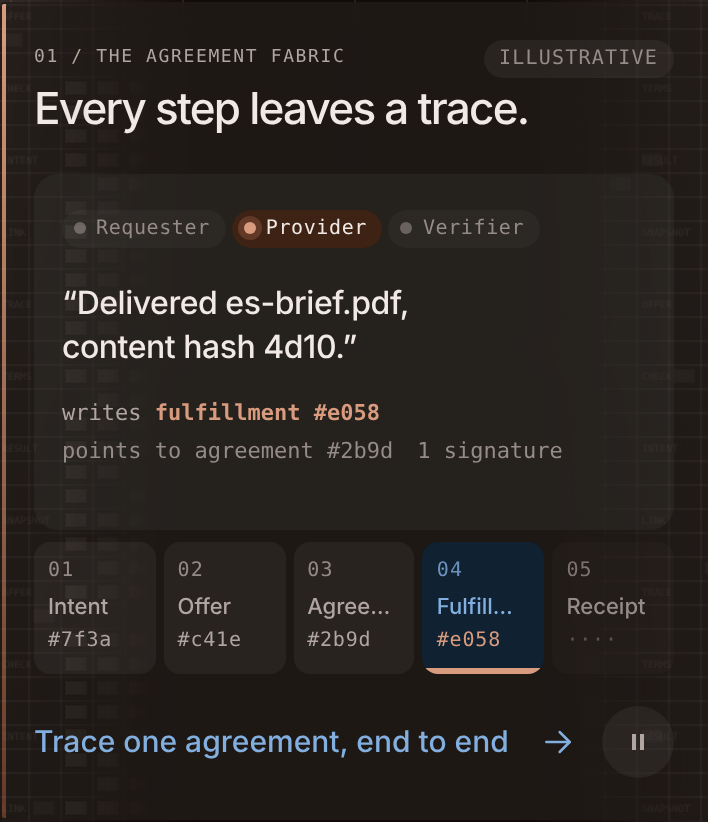
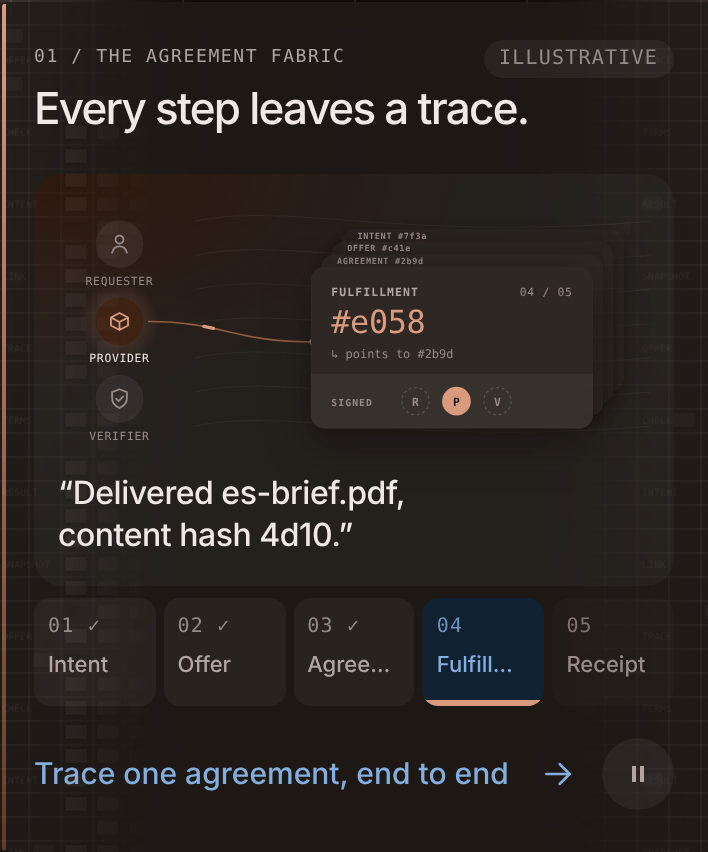
Home: illustrate the agreement fabric step
Brings back a drawn scene: the three parties as glyph avatars, a beam
from whoever acts to their signature on the record being written, and
the records already written stacked behind it, sealed when the receipt
verifies the trail. The step tiles drop their hashes, since the stack
now shows them.

Claude-Session: https://claude.ai/code/session_01JsiwkMB1W5KMpojX5vuTMZ

diff --git a/css/home-flow.css b/css/home-flow.css
@@ -10,54 +10,108 @@
  font:500 10px/1.5 var(--mono-font,monospace);letter-spacing:.06em;text-transform:uppercase;color:hsl(var(--text-faint));}
 .flow {--flow-step:3.2s;display:grid;gap:6px;margin-top:20px;}
 
-/* Now ------------------------------------------------------------------- */
-.flow-now {display:grid;gap:14px;align-content:start;min-height:156px;padding:16px 18px 16px;border-radius:12px;background:hsl(var(--text-strong) / .045);}
-.flow-now-head {display:flex;align-items:center;justify-content:space-between;gap:10px;min-height:26px;}
-.flow-parties {display:flex;flex-wrap:wrap;gap:4px;}
-.flow-party {display:inline-flex;align-items:center;gap:7px;padding:4px 10px 4px 8px;border-radius:999px;background:hsl(var(--text-strong) / .04);
- font:500 11px/1.3 var(--mono-font,ui-monospace,monospace);letter-spacing:.03em;color:hsl(var(--text-faint));transition:background 240ms,color 240ms;}
-.flow-party-dot {width:6px;height:6px;border-radius:50%;background:currentColor;opacity:.6;transition:background 240ms,opacity 240ms,box-shadow 240ms;}
-.flow[data-actors~="requester"] .flow-party[data-actor="requester"],
-.flow[data-actors~="provider"] .flow-party[data-actor="provider"],
-.flow[data-actors~="verifier"] .flow-party[data-actor="verifier"] {background:hsl(var(--primary-200));color:hsl(var(--text-strong));}
-.flow[data-actors~="requester"] .flow-party[data-actor="requester"] .flow-party-dot,
-.flow[data-actors~="provider"] .flow-party[data-actor="provider"] .flow-party-dot,
-.flow[data-actors~="verifier"] .flow-party[data-actor="verifier"] .flow-party-dot {background:hsl(var(--primary));opacity:1;box-shadow:0 0 0 3px hsl(var(--primary-300));}
-
-.flow-says {display:block;font:500 18px/1.35 var(--font-sans,"Albert Sans",sans-serif);letter-spacing:-.015em;color:hsl(var(--text-strong));text-wrap:balance;}
-.flow-meta {display:flex;flex-wrap:wrap;align-items:center;gap:6px 16px;font:400 12px/1.4 var(--mono-font,ui-monospace,monospace);color:hsl(var(--text-faint));}
-.flow-writes {color:hsl(var(--text-muted));}
-.flow-writes b {font-weight:600;color:hsl(var(--primary));}
-.flow.flow-run .flow-now :is(.flow-says,.flow-meta) {animation:flow-caption 420ms ease-out both;}
-.flow.flow-run .flow-meta {animation-delay:240ms;}
+/* Now: the illustrated step, then its quote ------------------------------ */
+.flow-now {display:grid;gap:12px;align-content:start;padding:14px 18px 18px;border-radius:14px;
+ background:radial-gradient(120% 90% at 0% 0%,hsl(var(--primary-100)),transparent 55%),hsl(var(--text-strong) / .04);}
+.flow-scene {display:block;width:100%;height:auto;overflow:visible;}
+.flow-says {display:block;min-height:2.7em;font:500 18px/1.35 var(--font-sans,"Albert Sans",sans-serif);letter-spacing:-.015em;color:hsl(var(--text-strong));text-wrap:balance;}
+.flow.flow-run .flow-says {animation:flow-caption 420ms ease-out both;}
 @keyframes flow-caption {from{opacity:0;transform:translateY(3px);}to{opacity:1;transform:none;}}
 
+.flow-weave path {stroke:hsl(var(--text-strong) / .05);stroke-width:1;}
+.flow-glow-in {stop-color:hsl(var(--primary));stop-opacity:.28;}
+.flow-glow-out {stop-color:hsl(var(--primary));stop-opacity:0;}
+
+/* Parties: dim until they act. */
+.flow-avatar-glow {opacity:0;transition:opacity 300ms;}
+.flow-avatar-ring {fill:none;stroke:hsl(var(--primary));stroke-width:1.5;opacity:0;transform-box:fill-box;transform-origin:center;}
+.flow-avatar-disc {fill:hsl(var(--text-strong) / .07);transition:fill 300ms;}
+.flow-avatar-glyph {stroke:hsl(var(--text-faint));stroke-width:1.6;stroke-linecap:round;stroke-linejoin:round;fill:none;transition:stroke 300ms;}
+.flow-avatar-label {font:500 10px var(--mono-font,ui-monospace,monospace);letter-spacing:.06em;text-transform:uppercase;fill:hsl(var(--text-faint));transition:fill 300ms;}
+.flow[data-actors~="requester"] .flow-avatar[data-actor="requester"],
+.flow[data-actors~="provider"] .flow-avatar[data-actor="provider"],
+.flow[data-actors~="verifier"] .flow-avatar[data-actor="verifier"] {--on:1;}
+.flow-avatar {--on:0;}
+.flow-avatar .flow-avatar-glow {opacity:var(--on);}
+.flow[data-actors~="requester"] .flow-avatar[data-actor="requester"] .flow-avatar-disc,
+.flow[data-actors~="provider"] .flow-avatar[data-actor="provider"] .flow-avatar-disc,
+.flow[data-actors~="verifier"] .flow-avatar[data-actor="verifier"] .flow-avatar-disc {fill:hsl(var(--primary-200));}
+.flow[data-actors~="requester"] .flow-avatar[data-actor="requester"] .flow-avatar-glyph,
+.flow[data-actors~="provider"] .flow-avatar[data-actor="provider"] .flow-avatar-glyph,
+.flow[data-actors~="verifier"] .flow-avatar[data-actor="verifier"] .flow-avatar-glyph {stroke:hsl(var(--primary));}
+.flow[data-actors~="requester"] .flow-avatar[data-actor="requester"] .flow-avatar-label,
+.flow[data-actors~="provider"] .flow-avatar[data-actor="provider"] .flow-avatar-label,
+.flow[data-actors~="verifier"] .flow-avatar[data-actor="verifier"] .flow-avatar-label {fill:hsl(var(--text-strong));}
+.flow.flow-run[data-actors~="requester"] .flow-avatar[data-actor="requester"] .flow-avatar-ring,
+.flow.flow-run[data-actors~="provider"] .flow-avatar[data-actor="provider"] .flow-avatar-ring,
+.flow.flow-run[data-actors~="verifier"] .flow-avatar[data-actor="verifier"] .flow-avatar-ring {animation:flow-ping 1.6s ease-out 2;}
+@keyframes flow-ping {from{opacity:.8;transform:scale(.85);}to{opacity:0;transform:scale(1.35);}}
+
+/* Beams: drawn from the acting party to the record, then a spark rides them. */
+.flow-beam {opacity:0;transition:opacity 300ms;}
+.flow-beam[data-on="true"] {opacity:1;}
+.flow-beam-line {stroke:hsl(var(--primary-400));stroke-width:1.5;stroke-dasharray:1;stroke-dashoffset:0;}
+.flow-beam-spark {stroke:hsl(var(--primary));stroke-width:3;stroke-linecap:round;stroke-dasharray:.06 .94;stroke-dashoffset:.06;opacity:0;}
+.flow-beam-end {fill:hsl(var(--primary));}
+.flow.flow-run .flow-beam[data-on="true"] .flow-beam-line {animation:flow-draw 700ms cubic-bezier(.22,1,.36,1) both;}
+.flow.flow-run .flow-beam[data-on="true"] .flow-beam-spark {opacity:1;animation:flow-spark 1.6s linear 500ms infinite;}
+.flow[data-playing="false"] .flow-beam-spark {animation:none !important;opacity:0 !important;}
+@keyframes flow-draw {from{stroke-dashoffset:1;}to{stroke-dashoffset:0;}}
+@keyframes flow-spark {from{stroke-dashoffset:.06;}to{stroke-dashoffset:-.94;}}
+
+/* The trail behind the current record. */
+.flow-ghost {opacity:0;transition:opacity 400ms;}
+.flow-ghost[data-on="true"] {opacity:1;}
+.flow-ghost-box {fill:hsl(var(--raised));filter:drop-shadow(0 4px 6px hsl(var(--canvas) / .6));}
+.flow-ghost[data-depth="1"] .flow-ghost-box {opacity:.92;}
+.flow-ghost[data-depth="2"] .flow-ghost-box {opacity:.75;}
+.flow-ghost[data-depth="3"] .flow-ghost-box {opacity:.58;}
+.flow-ghost[data-depth="4"] .flow-ghost-box {opacity:.42;}
+.flow-ghost-label {font:600 7.5px var(--mono-font,ui-monospace,monospace);letter-spacing:.08em;fill:hsl(var(--text-faint));}
+.flow[data-complete="true"] .flow-ghost-label {fill:hsl(var(--success));}
+
+/* The record being written. */
+.flow-card-box {fill:hsl(var(--raised));filter:drop-shadow(0 12px 18px hsl(var(--canvas) / .55));}
+.flow-card-band {fill:hsl(var(--text-strong) / .05);}
+.flow-card-type {font:600 10px var(--mono-font,ui-monospace,monospace);letter-spacing:.1em;fill:hsl(var(--text-muted));}
+.flow-card-count {font:500 10px var(--mono-font,ui-monospace,monospace);letter-spacing:.06em;fill:hsl(var(--text-faint));}
+.flow-card-hash {font:500 28px var(--mono-font,ui-monospace,monospace);letter-spacing:-.01em;fill:hsl(var(--primary));}
+.flow-card-prev {font:400 10.5px var(--mono-font,ui-monospace,monospace);fill:hsl(var(--text-faint));}
+.flow-card-signed {font:600 8.5px var(--mono-font,ui-monospace,monospace);letter-spacing:.12em;fill:hsl(var(--text-faint));}
+.flow-stamp-disc {fill:none;stroke:hsl(var(--text-strong) / .16);stroke-width:1.2;stroke-dasharray:2.5 2.5;transition:fill 300ms,stroke 300ms;}
+.flow-stamp-mark {font:600 10px var(--mono-font,ui-monospace,monospace);fill:hsl(var(--text-faint));transition:fill 300ms;}
+.flow-stamp[data-on="true"] .flow-stamp-disc {fill:hsl(var(--primary));stroke:hsl(var(--primary));stroke-dasharray:none;}
+.flow-stamp[data-on="true"] .flow-stamp-mark {fill:hsl(var(--text-inverse));}
+.flow.flow-run .flow-stamp[data-on="true"] {animation:flow-stamp 500ms cubic-bezier(.34,1.56,.64,1) 550ms both;transform-box:fill-box;transform-origin:center;}
+@keyframes flow-stamp {from{transform:scale(1.6);opacity:0;}to{transform:none;opacity:1;}}
+.flow.flow-run .flow-card {animation:flow-card 520ms cubic-bezier(.22,1,.36,1) both;}
+@keyframes flow-card {from{transform:translate(-6px,8px);opacity:.3;}to{transform:none;opacity:1;}}
+
 /* A finished trail: one success state, after the receipt is written. */
-.flow-meta > .flow-verified {display:none;padding:1px 8px;border-radius:999px;background:hsl(var(--success-100));font-weight:600;color:hsl(var(--success));}
-.flow-meta > .flow-verified::before {content:"✓";margin-right:5px;opacity:1;}
-.flow[data-complete="true"] .flow-meta > .flow-verified {display:inline-block;}
-.flow[data-complete="true"] .flow-signs {display:none;}
+.flow-seal {opacity:0;transform-box:fill-box;transform-origin:center;transition:opacity 300ms;}
+.flow-seal-disc {fill:hsl(var(--success-100));stroke:hsl(var(--success));stroke-width:1.5;}
+.flow-seal-check {stroke:hsl(var(--success));stroke-width:2.4;stroke-linecap:round;stroke-linejoin:round;fill:none;}
+.flow[data-complete="true"] .flow-seal {opacity:1;}
+.flow.flow-run[data-complete="true"] .flow-seal {animation:flow-stamp 500ms cubic-bezier(.34,1.56,.64,1) 900ms both;}
+.flow[data-complete="true"] .flow-card-hash {fill:hsl(var(--success));}
 
 /* Ledger: five record tiles, which are also the step links. A future record
    is an empty slot; the current one fills as the step plays; a written one
    keeps its hash. */
 #scene .flow-ledger {display:grid;grid-template-columns:repeat(5,minmax(0,1fr));gap:6px;margin:0;padding:0;list-style:none;}
 #scene .flow-ledger li {min-width:0;text-align:left;}
-#scene .flow-ledger .flow-record {position:relative;display:grid;gap:2px;min-height:74px;margin:0;padding:10px 11px 12px;border:0;border-radius:10px;overflow:hidden;
+#scene .flow-ledger .flow-record {position:relative;display:grid;gap:2px;min-height:58px;margin:0;padding:10px 11px 12px;border:0;border-radius:10px;overflow:hidden;
  background:hsl(var(--text-strong) / .025);text-decoration:none;color:hsl(var(--text-faint)) !important;transition:background 240ms,color 240ms;}
 #scene .flow-ledger .flow-record-num {font:500 10px/1.3 var(--mono-font,ui-monospace,monospace);letter-spacing:.06em;opacity:.8;}
 #scene .flow-ledger .flow-record-name {overflow:hidden;font:500 13px/1.3 var(--font-sans,"Albert Sans",sans-serif);text-overflow:ellipsis;white-space:nowrap;}
-#scene .flow-ledger .flow-record-hash {margin-top:auto;font:500 11px/1.3 var(--mono-font,ui-monospace,monospace);letter-spacing:.04em;}
-#scene .flow-ledger .flow-record-hash::before {content:"····";opacity:.5;}
-#scene .flow-ledger .flow-record:is([data-done],[data-current]) .flow-record-hash::before {content:attr(data-hash);opacity:1;}
 #scene .flow-ledger .flow-record-bar {position:absolute;left:0;right:0;bottom:0;height:3px;background:transparent;}
 #scene .flow-ledger .flow-record-bar::after {content:"";position:absolute;inset:0;background:hsl(var(--primary));transform:scaleX(0);transform-origin:left;}
+#scene .flow-ledger .flow-record[data-done] .flow-record-num::after {content:" ✓";}
+#scene .flow[data-complete="true"] .flow-ledger .flow-record .flow-record-num {color:hsl(var(--success));}
 #scene .flow-ledger .flow-record[data-done] {background:hsl(var(--text-strong) / .055);color:hsl(var(--text-muted)) !important;}
 #scene .flow-ledger .flow-record[data-current] {background:hsl(var(--text-strong) / .09);color:hsl(var(--text-strong)) !important;}
-#scene .flow-ledger .flow-record[data-current] .flow-record-hash {color:hsl(var(--primary));}
 #scene .flow-ledger .flow-record[data-current] .flow-record-bar::after {transform:none;}
 #scene .flow[data-playing="true"].flow-run .flow-record[data-current] .flow-record-bar::after {animation:flow-progress var(--flow-step) linear both;}
-#scene .flow[data-complete="true"] .flow-record .flow-record-hash {color:hsl(var(--success));}
 #scene .flow-ledger .flow-record:is(:hover,:focus-visible) {background:hsl(var(--reference-100));color:hsl(var(--reference)) !important;}
 #scene .flow-ledger .flow-record:focus-visible {outline:2px solid hsl(var(--reference));outline-offset:2px;}
 @keyframes flow-progress {from{transform:scaleX(0);}to{transform:scaleX(1);}}
@@ -114,13 +168,9 @@
 }
 @media(max-width:480px){
  #scene .flow-ledger {gap:4px;}
- #scene .flow-ledger .flow-record {min-height:66px;padding:8px 7px 10px;border-radius:8px;}
+ #scene .flow-ledger .flow-record {min-height:54px;padding:8px 7px 10px;border-radius:8px;}
  #scene .flow-ledger .flow-record-name {font-size:11px;}
- #scene .flow-ledger .flow-record-hash {font-size:10px;}
- .flow-now {min-height:178px;padding:14px;}
- .flow-parties {gap:3px;}
- .flow-party {gap:5px;padding:3px 8px 3px 6px;font-size:10px;}
- .flow-meta {font-size:11px;gap:4px 12px;}
+  .flow-now {padding:10px 12px 14px;}
 }
 
 /* The panel clips its corners (overflow:hidden), which makes grid treat its
@@ -136,9 +186,9 @@
  #scene .home-lifecycle .home-lifecycle-caption {margin-bottom:10px;}
  #scene .home-lifecycle .home-cycle-title {font-size:26px;}
  .flow {margin-top:14px;}
- .flow-now {min-height:136px;gap:10px;padding:14px 16px;}
+ .flow-now {gap:8px;padding:10px 16px 14px;}
  .flow-says {font-size:16px;}
- #scene .flow-ledger .flow-record {min-height:64px;padding:8px 10px 10px;}
+ #scene .flow-ledger .flow-record {min-height:52px;padding:8px 10px 10px;}
  #scene .home-lifecycle-foot {margin-top:4px;}
  #scene .home-lifecycle .home-lifecycle-foot .home-lifecycle-all {min-height:40px;}
 }

diff --git a/js/pages/home-flow.js b/js/pages/home-flow.js
@@ -1,9 +1,9 @@
 /* Home: one agreement, played step by step.
 
-   Two tiles, each saying one thing. The "now" tile shows who acts, what they
-   say, and the record that step writes (with the record it points back to).
-   The ledger is the five records themselves: they are also the step links,
-   so the stages are listed once. The scene auto-advances, pauses on
+   The "now" tile illustrates the step: the acting party signs the record it
+   writes, which lands on the stack of records already written (each pointing
+   to the one before it); the quote says what they agreed. Under it, the five
+   stages are listed once, as the step links that drive the scene. The scene auto-advances, pauses on
    hover/focus or with its own button, and stops when the page is hidden.
    Reduced motion, or a paused scene, shows the finished trail with the steps
    still selectable. The example is illustrative. */
@@ -43,32 +43,135 @@
     return i === 0 ? 'opens the trail' : 'points to ' + STEPS[i - 1].records + ' #' + STEPS[i - 1].hash;
   }
 
+  function svg(tag, attrs, text) {
+    var node = document.createElementNS(NS, tag);
+    Object.keys(attrs).forEach(function (key) { node.setAttribute(key, attrs[key]); });
+    if (text != null) node.textContent = text;
+    return node;
+  }
+
+  // Party glyphs, drawn in a 24-unit box centred on the avatar.
+  var GLYPHS = {
+    requester: 'M12 11.5a3.5 3.5 0 1 0 0-7 3.5 3.5 0 0 0 0 7zM5.5 19.5c.8-3.4 3.4-5.5 6.5-5.5s5.7 2.1 6.5 5.5',
+    provider: 'M4.5 8.5 12 4.5l7.5 4v7L12 19.5l-7.5-4zM4.5 8.5 12 12.5l7.5-4M12 12.5v7',
+    verifier: 'M12 3.5 18.5 6v5.5c0 4-2.8 6.9-6.5 8.5-3.7-1.6-6.5-4.5-6.5-8.5V6zM9 11.8l2.2 2.2 4-4.2'
+  };
+  var AV_X = 54, AV_Y = [44, 112, 180], AV_R = 21;
+  var CARD = { x: 222, y: 64, w: 248, h: 142 };
+  var STAMP_X = [CARD.x + 92, CARD.x + 128, CARD.x + 164], STAMP_Y = CARD.y + CARD.h - 24;
+  var GHOSTS = 4, GHOST_DX = 9, GHOST_DY = 11;
+
+  /* The scene: three parties on the left; on the right the record being
+     written, with the records already written stacked behind it. A beam runs
+     from each acting party to its signature on the record. */
+  function drawScene() {
+    var root = svg('svg', { viewBox: '0 0 520 222', class: 'flow-scene', fill: 'none' });
+    var defs = svg('defs', {});
+    var glow = svg('radialGradient', { id: 'flow-glow' });
+    glow.appendChild(svg('stop', { offset: '0', class: 'flow-glow-in' }));
+    glow.appendChild(svg('stop', { offset: '1', class: 'flow-glow-out' }));
+    defs.appendChild(glow); root.appendChild(defs);
+
+    // Woven backdrop: the "fabric" the trail is written into.
+    var weave = svg('g', { class: 'flow-weave' });
+    for (var w = 0; w < 7; w++) {
+      var y = 24 + w * 30;
+      weave.appendChild(svg('path', { d: 'M120 ' + y + 'C200 ' + (y - 18) + ' 300 ' + (y + 18) + ' 520 ' + y }));
+    }
+    root.appendChild(weave);
+
+    // Records already written, stacked behind the current one.
+    var ghosts = [];
+    for (var g = GHOSTS; g >= 1; g--) {
+      var gx = CARD.x + g * GHOST_DX, gy = CARD.y - g * GHOST_DY;
+      var ghost = svg('g', { class: 'flow-ghost', 'data-depth': String(g) });
+      ghost.appendChild(svg('rect', { x: gx, y: gy, width: CARD.w, height: CARD.h, rx: 12, class: 'flow-ghost-box' }));
+      var gt = svg('text', { x: gx + 14, y: gy + 8.5, class: 'flow-ghost-label' });
+      ghost.appendChild(gt);
+      ghost.label = gt;
+      ghosts[g] = ghost;
+      root.appendChild(ghost);
+    }
+
+    // Beams, under the card so they meet its edge cleanly.
+    var beams = ACTORS.map(function (actor, k) {
+      var sy = AV_Y[k], ex = CARD.x + 2, ey = CARD.y + 40 + k * 26;
+      var d = 'M' + (AV_X + AV_R + 4) + ' ' + sy + 'C' + (AV_X + 90) + ' ' + sy + ' ' + (ex - 70) + ' ' + ey + ' ' + ex + ' ' + ey;
+      var group = svg('g', { class: 'flow-beam', 'data-actor': actor.id });
+      group.appendChild(svg('path', { d: d, pathLength: '1', class: 'flow-beam-line' }));
+      group.appendChild(svg('path', { d: d, pathLength: '1', class: 'flow-beam-spark' }));
+      group.appendChild(svg('circle', { cx: ex, cy: ey, r: 3, class: 'flow-beam-end' }));
+      root.appendChild(group);
+      return group;
+    });
+
+    // Parties.
+    ACTORS.forEach(function (actor, k) {
+      var cy = AV_Y[k];
+      var g = svg('g', { class: 'flow-avatar', 'data-actor': actor.id });
+      g.appendChild(svg('circle', { cx: AV_X, cy: cy, r: AV_R + 14, fill: 'url(#flow-glow)', class: 'flow-avatar-glow' }));
+      g.appendChild(svg('circle', { cx: AV_X, cy: cy, r: AV_R + 5, class: 'flow-avatar-ring' }));
+      g.appendChild(svg('circle', { cx: AV_X, cy: cy, r: AV_R, class: 'flow-avatar-disc' }));
+      g.appendChild(svg('path', { d: GLYPHS[actor.id], transform: 'translate(' + (AV_X - 12) + ' ' + (cy - 12) + ')', class: 'flow-avatar-glyph' }));
+      g.appendChild(svg('text', { x: AV_X, y: cy + AV_R + 15, 'text-anchor': 'middle', class: 'flow-avatar-label' }, actor.label));
+      root.appendChild(g);
+    });
+
+    // The record being written.
+    var card = svg('g', { class: 'flow-card' });
+    card.appendChild(svg('rect', { x: CARD.x, y: CARD.y, width: CARD.w, height: CARD.h, rx: 12, class: 'flow-card-box' }));
+    card.appendChild(svg('path', { d: 'M' + CARD.x + ' ' + (CARD.y + CARD.h - 48) + 'h' + CARD.w + 'v36a12 12 0 0 1-12 12h-' + (CARD.w - 24) + 'a12 12 0 0 1-12-12z', class: 'flow-card-band' }));
+    var type = svg('text', { x: CARD.x + 18, y: CARD.y + 26, class: 'flow-card-type' });
+    var count = svg('text', { x: CARD.x + CARD.w - 18, y: CARD.y + 26, 'text-anchor': 'end', class: 'flow-card-count' });
+    var hash = svg('text', { x: CARD.x + 18, y: CARD.y + 58, class: 'flow-card-hash' });
+    var prev = svg('text', { x: CARD.x + 18, y: CARD.y + 80, class: 'flow-card-prev' });
+    card.appendChild(type); card.appendChild(count); card.appendChild(hash); card.appendChild(prev);
+    card.appendChild(svg('text', { x: CARD.x + 18, y: STAMP_Y + 4, class: 'flow-card-signed' }, 'SIGNED'));
+    var stamps = ACTORS.map(function (actor, k) {
+      var st = svg('g', { class: 'flow-stamp', 'data-actor': actor.id });
+      st.appendChild(svg('circle', { cx: STAMP_X[k], cy: STAMP_Y, r: 12, class: 'flow-stamp-disc' }));
+      st.appendChild(svg('text', { x: STAMP_X[k], y: STAMP_Y + 4, 'text-anchor': 'middle', class: 'flow-stamp-mark' }, actor.label.charAt(0)));
+      card.appendChild(st);
+      return st;
+    });
+    var seal = svg('g', { class: 'flow-seal' });
+    seal.appendChild(svg('circle', { cx: CARD.x + CARD.w - 34, cy: CARD.y + 66, r: 20, class: 'flow-seal-disc' }));
+    seal.appendChild(svg('path', { d: 'M' + (CARD.x + CARD.w - 42) + ' ' + (CARD.y + 66) + 'l6 6 10-11', class: 'flow-seal-check' }));
+    card.appendChild(seal);
+    root.appendChild(card);
+
+    return {
+      svg: root,
+      paint: function (i) {
+        var step = STEPS[i];
+        type.textContent = step.records.toUpperCase();
+        count.textContent = String(i + 1).padStart(2, '0') + ' / 05';
+        hash.textContent = '#' + step.hash;
+        prev.textContent = i === 0 ? 'genesis · opens the trail' : '↳ points to #' + STEPS[i - 1].hash;
+        for (var d = 1; d <= GHOSTS; d++) {
+          var k = i - d;
+          ghosts[d].setAttribute('data-on', k >= 0 ? 'true' : 'false');
+          ghosts[d].label.textContent = k >= 0 ? STEPS[k].records.toUpperCase() + '  #' + STEPS[k].hash : '';
+        }
+        beams.forEach(function (b, k) { b.setAttribute('data-on', step.actors.indexOf(ACTORS[k].id) >= 0 ? 'true' : 'false'); });
+        stamps.forEach(function (st, k) { st.setAttribute('data-on', step.actors.indexOf(ACTORS[k].id) >= 0 ? 'true' : 'false'); });
+      }
+    };
+  }
+
   ArkUI.buildAgreementFlow = function (options) {
     var stages = options.stages, hrefFor = options.hrefFor;
     var root = el('div', 'flow');
     root.dataset.step = '0';
 
-    // Now: who acts, what they say, what it writes.
+    // Now: an illustration of the step (who signs which record, stacked on
+    // the trail so far), then what they say.
     var now = el('div', 'flow-now');
     now.setAttribute('aria-hidden', 'true');
-    var head = el('div', 'flow-now-head');
-    var parties = el('div', 'flow-parties');
-    ACTORS.forEach(function (actor) {
-      var chip = el('span', 'flow-party');
-      chip.dataset.actor = actor.id;
-      chip.appendChild(el('i', 'flow-party-dot'));
-      chip.appendChild(document.createTextNode(actor.label));
-      parties.appendChild(chip);
-    });
-    head.appendChild(parties);
-    now.appendChild(head);
+    var scene = drawScene();
+    now.appendChild(scene.svg);
     var says = el('strong', 'flow-says');
     now.appendChild(says);
-    var meta = el('div', 'flow-meta');
-    var writes = el('span', 'flow-writes'), points = el('span', 'flow-points'), signs = el('span', 'flow-signs');
-    meta.appendChild(writes); meta.appendChild(points); meta.appendChild(signs);
-    meta.appendChild(el('span', 'flow-verified', 'Trail verified'));
-    now.appendChild(meta);
     root.appendChild(now);
 
     // Ledger: the records are the step links (the real, accessible content).
@@ -79,9 +182,6 @@
       link.href = hrefFor(s.id); link.dataset.sceneLink = 'lifecycle/' + s.id;
       link.appendChild(el('span', 'flow-record-num', String(i + 1).padStart(2, '0')));
       link.appendChild(el('span', 'flow-record-name', s.title));
-      var hash = el('span', 'flow-record-hash'); hash.setAttribute('aria-hidden', 'true');
-      hash.dataset.hash = '#' + STEPS[i].hash;
-      link.appendChild(hash);
       var bar = el('span', 'flow-record-bar'); bar.setAttribute('aria-hidden', 'true');
       link.appendChild(bar);
       link.setAttribute('aria-label', s.title + ': ' + STEPS[i].who + ' — ' + STEPS[i].says + ' Records ' + STEPS[i].records + ' #' + STEPS[i].hash + ', ' + backRef(i) + '. Illustrative example. Open this step.');
@@ -105,11 +205,7 @@
       root.dataset.complete = complete ? 'true' : 'false';
       root.dataset.actors = step.actors.join(' ');
       says.textContent = '“' + step.says + '”';
-      writes.innerHTML = '';
-      writes.appendChild(document.createTextNode('writes '));
-      writes.appendChild(el('b', '', step.records + ' #' + step.hash));
-      points.textContent = backRef(i);
-      signs.textContent = step.actors.length === 1 ? '1 signature' : step.actors.length + ' signatures';
+      scene.paint(i);
       links.forEach(function (link, k) { link.toggleAttribute('data-current', k === i); link.toggleAttribute('data-done', k < i); });
       root.classList.remove('flow-run'); void root.offsetWidth; root.classList.add('flow-run');
     }

diff --git a/index.html b/index.html
@@ -52,7 +52,7 @@
 <link rel="stylesheet" href="css/story-diagrams.css?v=20261006-system1">
 <link rel="stylesheet" href="css/color-system.css?v=20261006-system1" />
 <link rel="stylesheet" href="css/brand-identity.css?v=20261006-system1" />
-<link rel="stylesheet" href="css/home-flow.css?v=20261007-fabric1" />
+<link rel="stylesheet" href="css/home-flow.css?v=20261007-fabric2" />
 <link rel="stylesheet" href="css/bundle-deployer.css?v=20261006-system1">
 <link rel="stylesheet" href="css/how-overview.css?v=20261006-system1">
 <link rel="stylesheet" href="css/explorer-observatory.css?v=20261006-system1">
